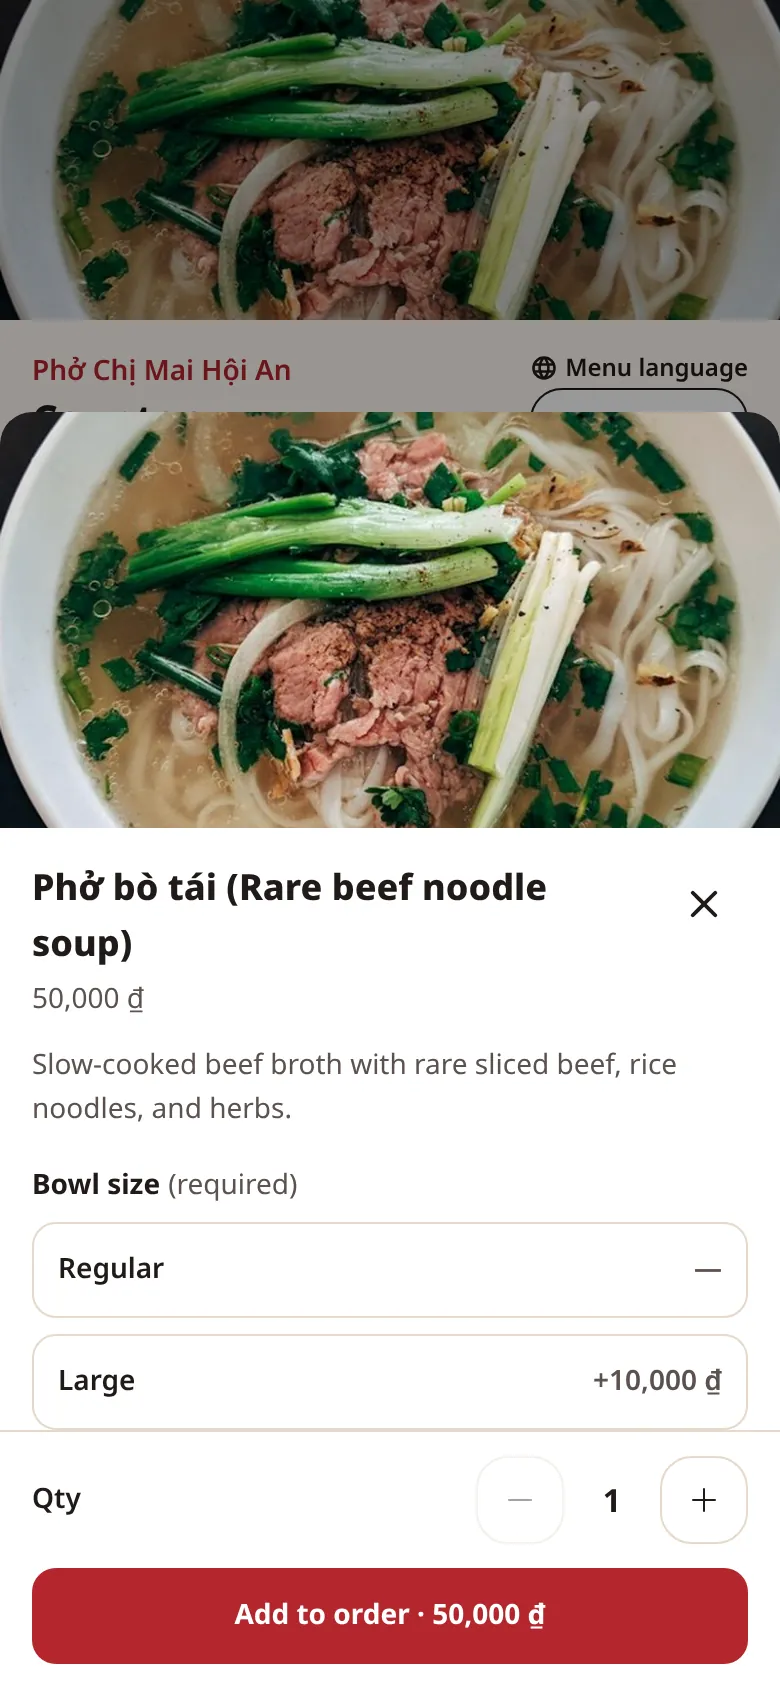
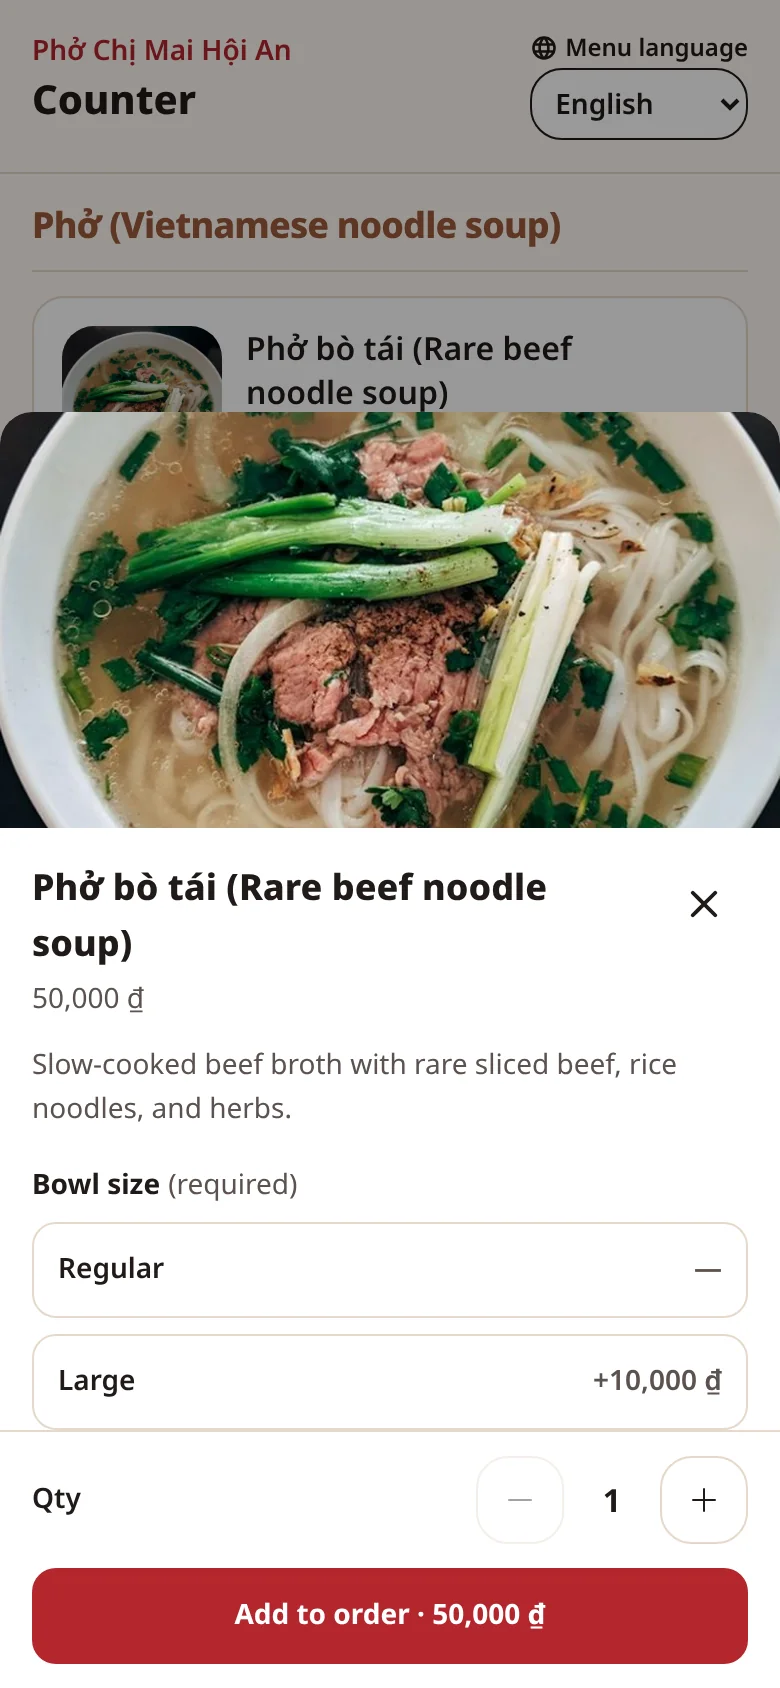
fix(website): 修复首页 hero 切页标签闪烁，并重拍菜品详情图
Programmatic smooth scroll was immediately updating the selected tab, then the scroller onScroll handler re-derived the index from intermediate scrollLeft and snapped tabs/caption back. Ignore mid-scroll index updates until scrollend. Recapture guest dish-detail shots so the dimmed menu list sits behind the sheet instead of the cover photo.

Changed region(s): [[0.0, 0.0, 1.0, 0.2464]]

diff --git a/apps/website/components/hero-gallery.tsx b/apps/website/components/hero-gallery.tsx
@@ -23,14 +23,67 @@ type HeroGalleryProps = {
 };
 
 const AUTOPLAY_MS = 6000;
+const PROGRAMMATIC_SCROLL_TIMEOUT_MS = 800;
+
+function slideOffset(scroller: HTMLDivElement, index: number): number {
+  const child = scroller.children[index] as HTMLElement | undefined;
+  return child ? child.offsetLeft : index * scroller.clientWidth;
+}
+
+function measuredIndex(scroller: HTMLDivElement, slideCount: number): number {
+  if (scroller.clientWidth === 0) {
+    return 0;
+  }
+  const next = Math.round(scroller.scrollLeft / scroller.clientWidth);
+  return Math.min(slideCount - 1, Math.max(0, next));
+}
 
 export function HeroGallery({ slides, label, previousLabel, nextLabel }: HeroGalleryProps) {
   const scrollerRef = useRef<HTMLDivElement>(null);
   const indexRef = useRef(0);
+  const pausedRef = useRef(true);
+  const programmaticTargetRef = useRef<number | null>(null);
+  const scrollEndTimerRef = useRef(0);
   const [index, setIndex] = useState(0);
   const [paused, setPaused] = useState(true);
   const reduceMotionRef = useRef(false);
   const baseId = useId();
+
+  const applyIndex = useCallback((next: number) => {
+    indexRef.current = next;
+    setIndex(next);
+  }, []);
+
+  const clearProgrammaticScroll = useCallback(() => {
+    programmaticTargetRef.current = null;
+    if (scrollEndTimerRef.current) {
+      window.clearTimeout(scrollEndTimerRef.current);
+      scrollEndTimerRef.current = 0;
+    }
+  }, []);
+
+  const finishProgrammaticScroll = useCallback(() => {
+    const el = scrollerRef.current;
+    const target = programmaticTargetRef.current;
+    clearProgrammaticScroll();
+    if (!el) {
+      return;
+    }
+    if (target !== null) {
+      const left = slideOffset(el, target);
+      if (Math.abs(el.scrollLeft - left) > 1) {
+        el.scrollTo({ left, behavior: 'auto' });
+      }
+      if (indexRef.current !== target) {
+        applyIndex(target);
+      }
+      return;
+    }
+    const measured = measuredIndex(el, slides.length);
+    if (measured !== indexRef.current) {
+      applyIndex(measured);
+    }
+  }, [applyIndex, clearProgrammaticScroll, slides.length]);
 
   const goTo = useCallback(
     (next: number) => {
@@ -39,20 +92,30 @@ export function HeroGallery({ slides, label, previousLabel, nextLabel }: HeroGal
         return;
       }
       const bounded = ((next % slides.length) + slides.length) % slides.length;
-      el.scrollTo({
-        left: bounded * el.clientWidth,
-        behavior: reduceMotionRef.current ? 'auto' : 'smooth',
-      });
-      indexRef.current = bounded;
-      setIndex(bounded);
+      applyIndex(bounded);
+      if (reduceMotionRef.current) {
+        clearProgrammaticScroll();
+        el.scrollTo({ left: slideOffset(el, bounded), behavior: 'auto' });
+        return;
+      }
+      programmaticTargetRef.current = bounded;
+      if (scrollEndTimerRef.current) {
+        window.clearTimeout(scrollEndTimerRef.current);
+      }
+      scrollEndTimerRef.current = window.setTimeout(
+        finishProgrammaticScroll,
+        PROGRAMMATIC_SCROLL_TIMEOUT_MS,
+      );
+      el.scrollTo({ left: slideOffset(el, bounded), behavior: 'smooth' });
     },
-    [slides.length],
+    [applyIndex, clearProgrammaticScroll, finishProgrammaticScroll, slides.length],
   );
 
   useEffect(() => {
     const mq = window.matchMedia('(prefers-reduced-motion: reduce)');
     const sync = () => {
       reduceMotionRef.current = mq.matches;
+      pausedRef.current = mq.matches;
       setPaused(mq.matches);
     };
     sync();
@@ -65,32 +128,51 @@ export function HeroGallery({ slides, label, previousLabel, nextLabel }: HeroGal
       return;
     }
     const timer = window.setInterval(() => {
+      if (pausedRef.current || programmaticTargetRef.current !== null) {
+        return;
+      }
       goTo(indexRef.current + 1);
     }, AUTOPLAY_MS);
     return () => window.clearInterval(timer);
   }, [goTo, paused, slides.length]);
 
+  useEffect(() => {
+    const el = scrollerRef.current;
+    if (!el) {
+      return;
+    }
+    const onEnd = () => finishProgrammaticScroll();
+    el.addEventListener('scrollend', onEnd);
+    return () => el.removeEventListener('scrollend', onEnd);
+  }, [finishProgrammaticScroll]);
+
   function pause() {
+    pausedRef.current = true;
     setPaused(true);
   }
 
   function resume() {
     if (!reduceMotionRef.current) {
+      pausedRef.current = false;
       setPaused(false);
     }
   }
 
   function onScroll() {
     const el = scrollerRef.current;
-    if (!el || el.clientWidth === 0) {
+    if (!el || el.clientWidth === 0 || programmaticTargetRef.current !== null) {
       return;
     }
-    const next = Math.round(el.scrollLeft / el.clientWidth);
-    const bounded = Math.min(slides.length - 1, Math.max(0, next));
+    const bounded = measuredIndex(el, slides.length);
     if (bounded !== indexRef.current) {
-      indexRef.current = bounded;
-      setIndex(bounded);
+      applyIndex(bounded);
     }
+  }
+
+  function onScrollerPointerDown() {
+    pause();
+    // A finger/mouse drag takes over from a programmatic scroll.
+    clearProgrammaticScroll();
   }
 
   function onKeyDown(event: KeyboardEvent<HTMLDivElement>) {
@@ -153,10 +235,10 @@ export function HeroGallery({ slides, label, previousLabel, nextLabel }: HeroGal
               aria-selected={selected}
               aria-controls={`${baseId}-${slide.id}`}
               tabIndex={selected ? 0 : -1}
-              className={`min-h-11 min-w-0 rounded-xl px-0.5 text-center text-[0.6875rem] font-bold leading-tight sm:px-1 sm:text-xs ${
+              className={`min-h-11 min-w-0 rounded-xl border px-0.5 text-center text-[0.6875rem] font-bold leading-tight sm:px-1 sm:text-xs ${
                 selected
-                  ? 'bg-brand-600 text-white'
-                  : 'border border-border bg-white text-ink-900 hover:bg-brand-50'
+                  ? 'border-transparent bg-brand-600 text-white'
+                  : 'border-border bg-white text-ink-900 hover:bg-brand-50'
               }`}
               onClick={() => {
                 pause();
@@ -174,7 +256,7 @@ export function HeroGallery({ slides, label, previousLabel, nextLabel }: HeroGal
             ref={scrollerRef}
             className="absolute inset-0 flex snap-x snap-mandatory overflow-x-auto overflow-y-hidden overscroll-x-contain scroll-smooth select-none [scrollbar-width:none] [touch-action:pan-x] [&::-webkit-scrollbar]:hidden"
             onScroll={onScroll}
-            onPointerDown={pause}
+            onPointerDown={onScrollerPointerDown}
           >
             {slides.map((slide, slideIndex) => (
               <div
